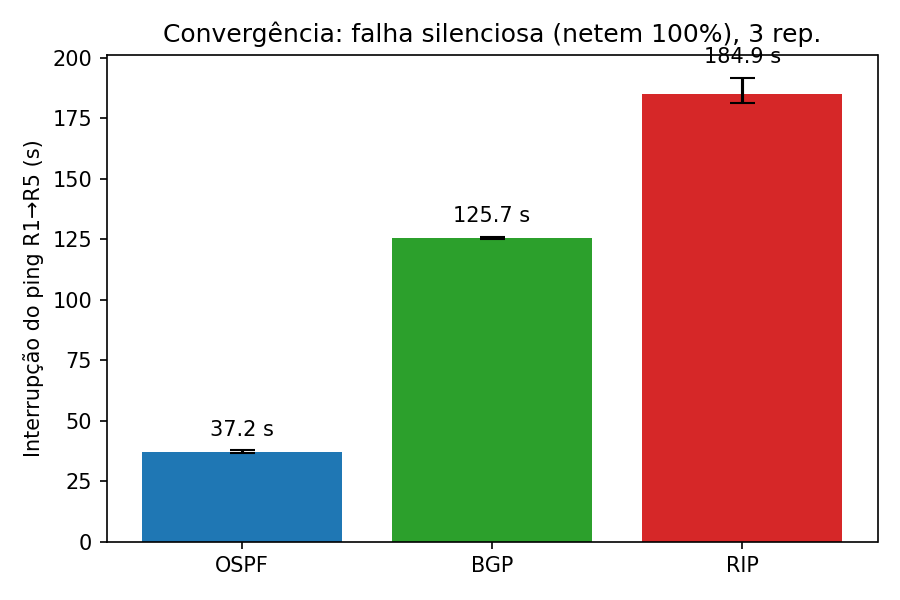
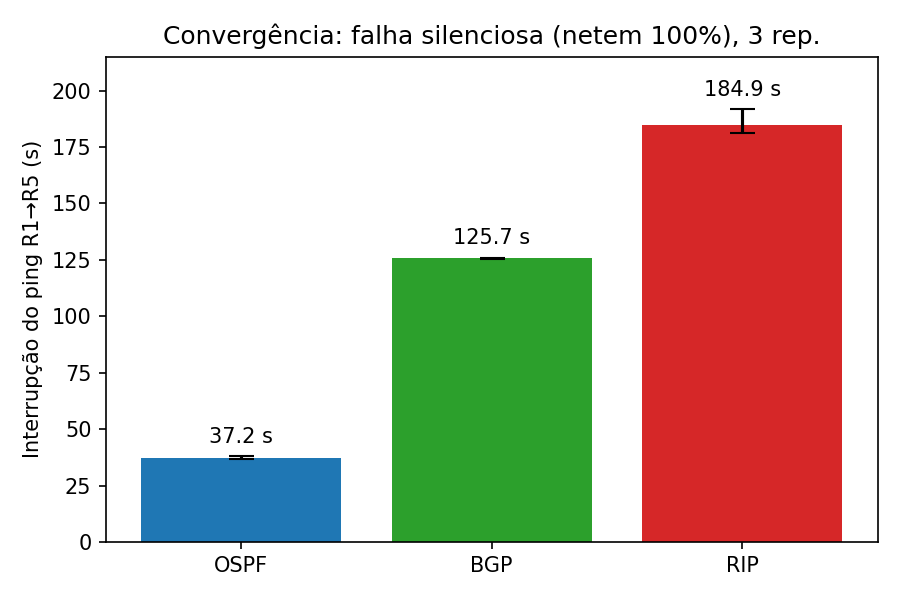
graficos: rotulo do exp1 e legenda do exp3

diff --git a/scripts/graficos.py b/scripts/graficos.py
@@ -25,6 +25,7 @@ for i, p in enumerate(["ospf", "bgp", "rip"]):
     ax.text(i, max(v) + 6, f"{m:.1f} s", ha="center")
 ax.set_xticks(range(3)); ax.set_xticklabels(["OSPF", "BGP", "RIP"])
 ax.set_ylabel("Interrupção do ping R1→R5 (s)")
+ax.set_ylim(0, 215)
 ax.set_title("Convergência: falha silenciosa (netem 100%), 3 rep.")
 salvar("exp1_silent")
 
@@ -89,12 +90,16 @@ rtt = {"OSPF": (0.12, 100.8), "RIP": (0.09, 100.7), "BGP": (0.09, 100.7)}
 fig, ax = plt.subplots(figsize=(6, 4))
 for i, (p, (a, b)) in enumerate(rtt.items()):
     ax.bar(i - 0.15, a, 0.3, color="#888", label="baseline" if i == 0 else None)
-    ax.bar(i + 0.15, b, 0.3, color=COR[p], label="+100 ms em R2-R5" if i == 0 else None)
+    ax.bar(i + 0.15, b, 0.3, color=COR[p])
     ax.text(i - 0.15, a, f"{a:.2f}", ha="center", va="bottom")
     ax.text(i + 0.15, b, f"{b:.0f}", ha="center", va="bottom")
 ax.set_yscale("log")
 ax.set_xticks(range(3)); ax.set_xticklabels(list(rtt)); ax.set_ylabel("RTT médio (ms, escala log)")
-ax.set_ylim(0.03, 400); ax.legend(loc="center right")
+from matplotlib.patches import Patch
+ax.set_ylim(0.03, 3000)
+ax.legend(handles=[Patch(color="#888", label="baseline"),
+                   Patch(facecolor="white", edgecolor="#333", label="+100 ms em R2-R5 (cor do protocolo)")],
+          loc="upper left", fontsize=9)
 ax.set_title("Nenhum protocolo evita o caminho lento")
 salvar("exp3_rtt")
 print("PNGs em results/graficos/")
